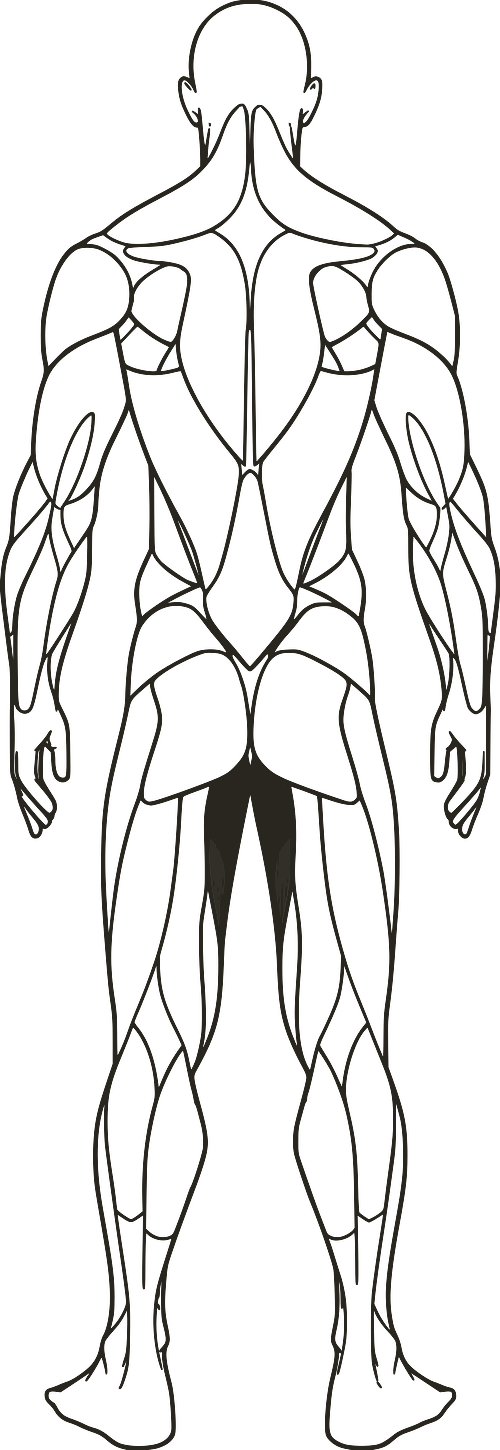
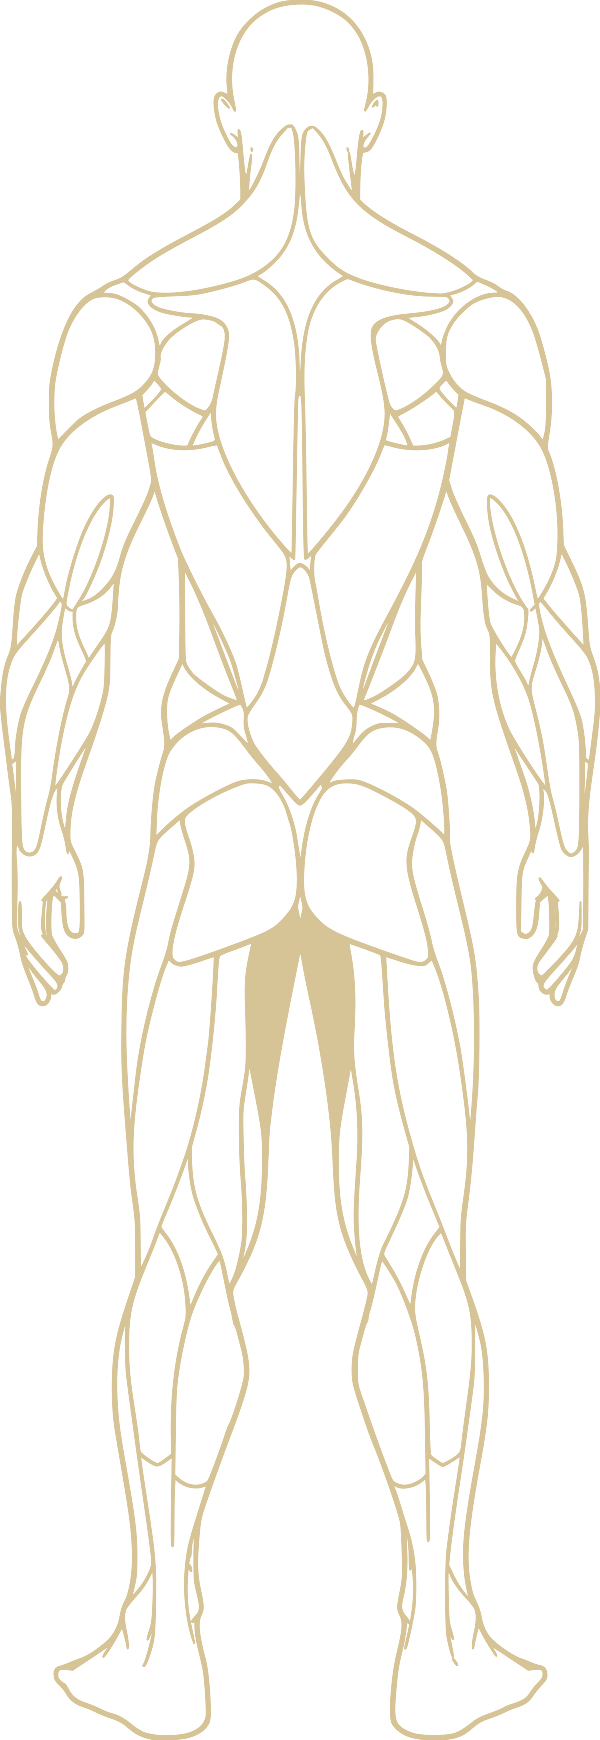
Dark-card muscle diagram + reorder cues before it in the info modal
Two pieces of feedback: the gold highlight wasn't easy enough to distinguish
against a light background, and the look should be more "muscle fiber"
professional (a reference image using the same asset showed a dark navy
card with every muscle textured, not just the worked ones flat-colored).
Checked the source files directly — that texture data doesn't exist in what
was purchased (only outline + red highlight), so this approximates the look
instead: a dark navy card, the outline re-tinted light gold for that
background, and a diagonal-hatch SVG pattern on every muscle region (muted
brown when resting, vivid gold when selected) rather than a flat wash. Every
muscle now has visible texture/definition, not just the selected ones,
matching "highlight only what's worked" against a fully-rendered body.

Also reordered the workout info modal: cues first, diagram after, per
Kent's request.

diff --git a/src/MuscleDiagram.tsx b/src/MuscleDiagram.tsx
@@ -1,4 +1,4 @@
-import { useState } from "react";
+import { useId, useState } from "react";
 import { useTranslation } from "react-i18next";
 import { ANTERIOR, POSTERIOR, MUSCLE_LABELS, BODY_VIEWBOX } from "./muscleGroups";
 import outlineFront from "./assets/muscleOutlineFront.png";
@@ -25,6 +25,12 @@ export default function MuscleDiagram({
   const selectedSet = new Set(selected);
   const regions = view === "front" ? ANTERIOR : POSTERIOR;
   const outline = view === "front" ? outlineFront : outlineBack;
+  // Pattern ids must be unique per rendered instance — two diagrams on one
+  // page (e.g. a future side-by-side view) would otherwise collide, since
+  // url(#id) resolves against the whole document, not per-<svg>.
+  const uid = useId().replace(/[:]/g, "");
+  const dimPattern = `muscleHatchDim-${uid}`;
+  const goldPattern = `muscleHatchGold-${uid}`;
 
   return (
     <div className={`muscleDiagram ${interactive ? "" : "readOnly"} ${className || ""}`}>
@@ -44,49 +50,74 @@ export default function MuscleDiagram({
           {t("muscleDiagramBack")}
         </button>
       </div>
-      <svg
-        className="muscleDiagramSvg"
-        viewBox={BODY_VIEWBOX}
-        role="img"
-        aria-label={t("muscleDiagramAriaLabel")}
-      >
-        <image
-          href={outline}
-          x="0"
-          y="0"
-          width="100"
-          height="290"
-          preserveAspectRatio="none"
-          className="muscleDiagramOutline"
-        />
-        {regions.map((region) =>
-          region.svgPoints.map((points, i) => {
-            const isSelected = selectedSet.has(region.muscle);
-            const cls =
-              "muscleDiagramRegion" +
-              (isSelected ? " isSelected" : "") +
-              (interactive ? " isInteractive" : "");
-            return (
-              <polygon
-                key={`${region.muscle}-${i}`}
-                points={points}
-                className={cls}
-                onClick={
-                  interactive ? () => onToggle?.(region.muscle) : undefined
-                }
-              >
-                <title>
-                  {MUSCLE_LABELS[region.muscle]
-                    ? isZh
-                      ? MUSCLE_LABELS[region.muscle].cn
-                      : MUSCLE_LABELS[region.muscle].en
-                    : region.muscle}
-                </title>
-              </polygon>
-            );
-          })
-        )}
-      </svg>
+      <div className="muscleDiagramCard">
+        <svg
+          className="muscleDiagramSvg"
+          viewBox={BODY_VIEWBOX}
+          role="img"
+          aria-label={t("muscleDiagramAriaLabel")}
+        >
+          <defs>
+            <pattern
+              id={dimPattern}
+              patternUnits="userSpaceOnUse"
+              width="3"
+              height="3"
+              patternTransform="rotate(45)"
+            >
+              <rect width="3" height="3" fill="#4a4330" />
+              <line x1="0" y1="0" x2="0" y2="3" stroke="#6b6247" strokeWidth="1" />
+            </pattern>
+            <pattern
+              id={goldPattern}
+              patternUnits="userSpaceOnUse"
+              width="3"
+              height="3"
+              patternTransform="rotate(45)"
+            >
+              <rect width="3" height="3" fill="#c99a2e" />
+              <line x1="0" y1="0" x2="0" y2="3" stroke="#ffe08a" strokeWidth="1" />
+            </pattern>
+          </defs>
+          <image
+            href={outline}
+            x="0"
+            y="0"
+            width="100"
+            height="290"
+            preserveAspectRatio="none"
+            className="muscleDiagramOutline"
+          />
+          {regions.map((region) =>
+            region.svgPoints.map((points, i) => {
+              const isSelected = selectedSet.has(region.muscle);
+              const cls =
+                "muscleDiagramRegion" +
+                (isSelected ? " isSelected" : "") +
+                (interactive ? " isInteractive" : "");
+              return (
+                <polygon
+                  key={`${region.muscle}-${i}`}
+                  points={points}
+                  className={cls}
+                  fill={`url(#${isSelected ? goldPattern : dimPattern})`}
+                  onClick={
+                    interactive ? () => onToggle?.(region.muscle) : undefined
+                  }
+                >
+                  <title>
+                    {MUSCLE_LABELS[region.muscle]
+                      ? isZh
+                        ? MUSCLE_LABELS[region.muscle].cn
+                        : MUSCLE_LABELS[region.muscle].en
+                      : region.muscle}
+                  </title>
+                </polygon>
+              );
+            })
+          )}
+        </svg>
+      </div>
       {interactive && (
         <p className="muscleDiagramHint">{t("muscleDiagramHint")}</p>
       )}

diff --git a/src/App.tsx b/src/App.tsx
@@ -20599,13 +20599,6 @@ function App({ onReady }: { onReady?: () => void } = {}) {
                   </span>
                 </div>
 
-                {technicalCueExercise.targetMuscles &&
-                  technicalCueExercise.targetMuscles.length > 0 && (
-                    <MuscleDiagram
-                      selected={technicalCueExercise.targetMuscles}
-                    />
-                  )}
-
                 {parseExerciseCueSections(
                   localizedExerciseNotes(technicalCueExercise)
                 ).length > 0 ? (
@@ -20626,6 +20619,13 @@ function App({ onReady }: { onReady?: () => void } = {}) {
                 ) : (
                   <p>{t("noTechnicalCues")}</p>
                 )}
+
+                {technicalCueExercise.targetMuscles &&
+                  technicalCueExercise.targetMuscles.length > 0 && (
+                    <MuscleDiagram
+                      selected={technicalCueExercise.targetMuscles}
+                    />
+                  )}
               </div>
 
               <div className="modalActions">

diff --git a/src/MuscleDiagram.css b/src/MuscleDiagram.css
@@ -29,31 +29,35 @@
   color: #f5f1e8;
 }
 
+.muscleDiagramCard {
+  width: 100%;
+  max-width: 220px;
+  padding: 18px 14px;
+  border-radius: 16px;
+  background: #0d0f1a;
+  box-shadow: inset 0 0 0 1px rgba(212, 175, 55, 0.14);
+}
 .muscleDiagramSvg {
   width: 100%;
-  max-width: 168px;
+  display: block;
   height: auto;
 }
 .muscleDiagramOutline {
   pointer-events: none;
 }
 .muscleDiagramRegion {
-  fill: #d4af37;
-  fill-opacity: 0;
   stroke: none;
-  transition: fill-opacity 0.15s ease;
+  opacity: 0.82;
+  transition: opacity 0.15s ease;
 }
 .muscleDiagramRegion.isInteractive {
   cursor: pointer;
 }
 .muscleDiagramRegion.isInteractive:hover {
-  fill-opacity: 0.35;
+  opacity: 1;
 }
 .muscleDiagramRegion.isSelected {
-  fill-opacity: 0.72;
-}
-.muscleDiagramRegion.isSelected.isInteractive:hover {
-  fill-opacity: 0.85;
+  opacity: 1;
 }
 
 .muscleDiagramHint {
